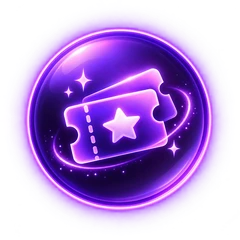
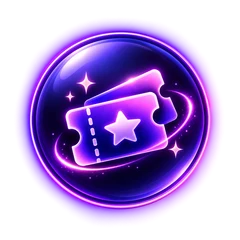
style(boutons): les tickets passent a une version moins flashy
Le grand bouton de l'accueil et le bouton rond de la barre d'onglets (ainsi
que celui de la page Mes soirees, qui partage l'image) prennent les
nouvelles illustrations fournies, plus sobres.

Meme traitement que les precedentes, fournies sur fond noir opaque :
interieur de la forme opaque, halo autour rendu transparent, bords fondus.
Le disque est recadre pour occuper 74 % de l'image, comme avant, si bien que
les tailles dans le code ne bougent pas. Verifie sur fond gris et sur fond
sombre : aucun cadre. 62 Ko et 18 Ko.

diff --git a/src/components/pick/HomeScreen.tsx b/src/components/pick/HomeScreen.tsx
@@ -2448,7 +2448,7 @@ const HomeScreen = ({
               aria-hidden="true"
               draggable={false}
               width={1100}
-              height={243}
+              height={252}
               className="block w-full h-auto pointer-events-none select-none"
             />
           </motion.button>
